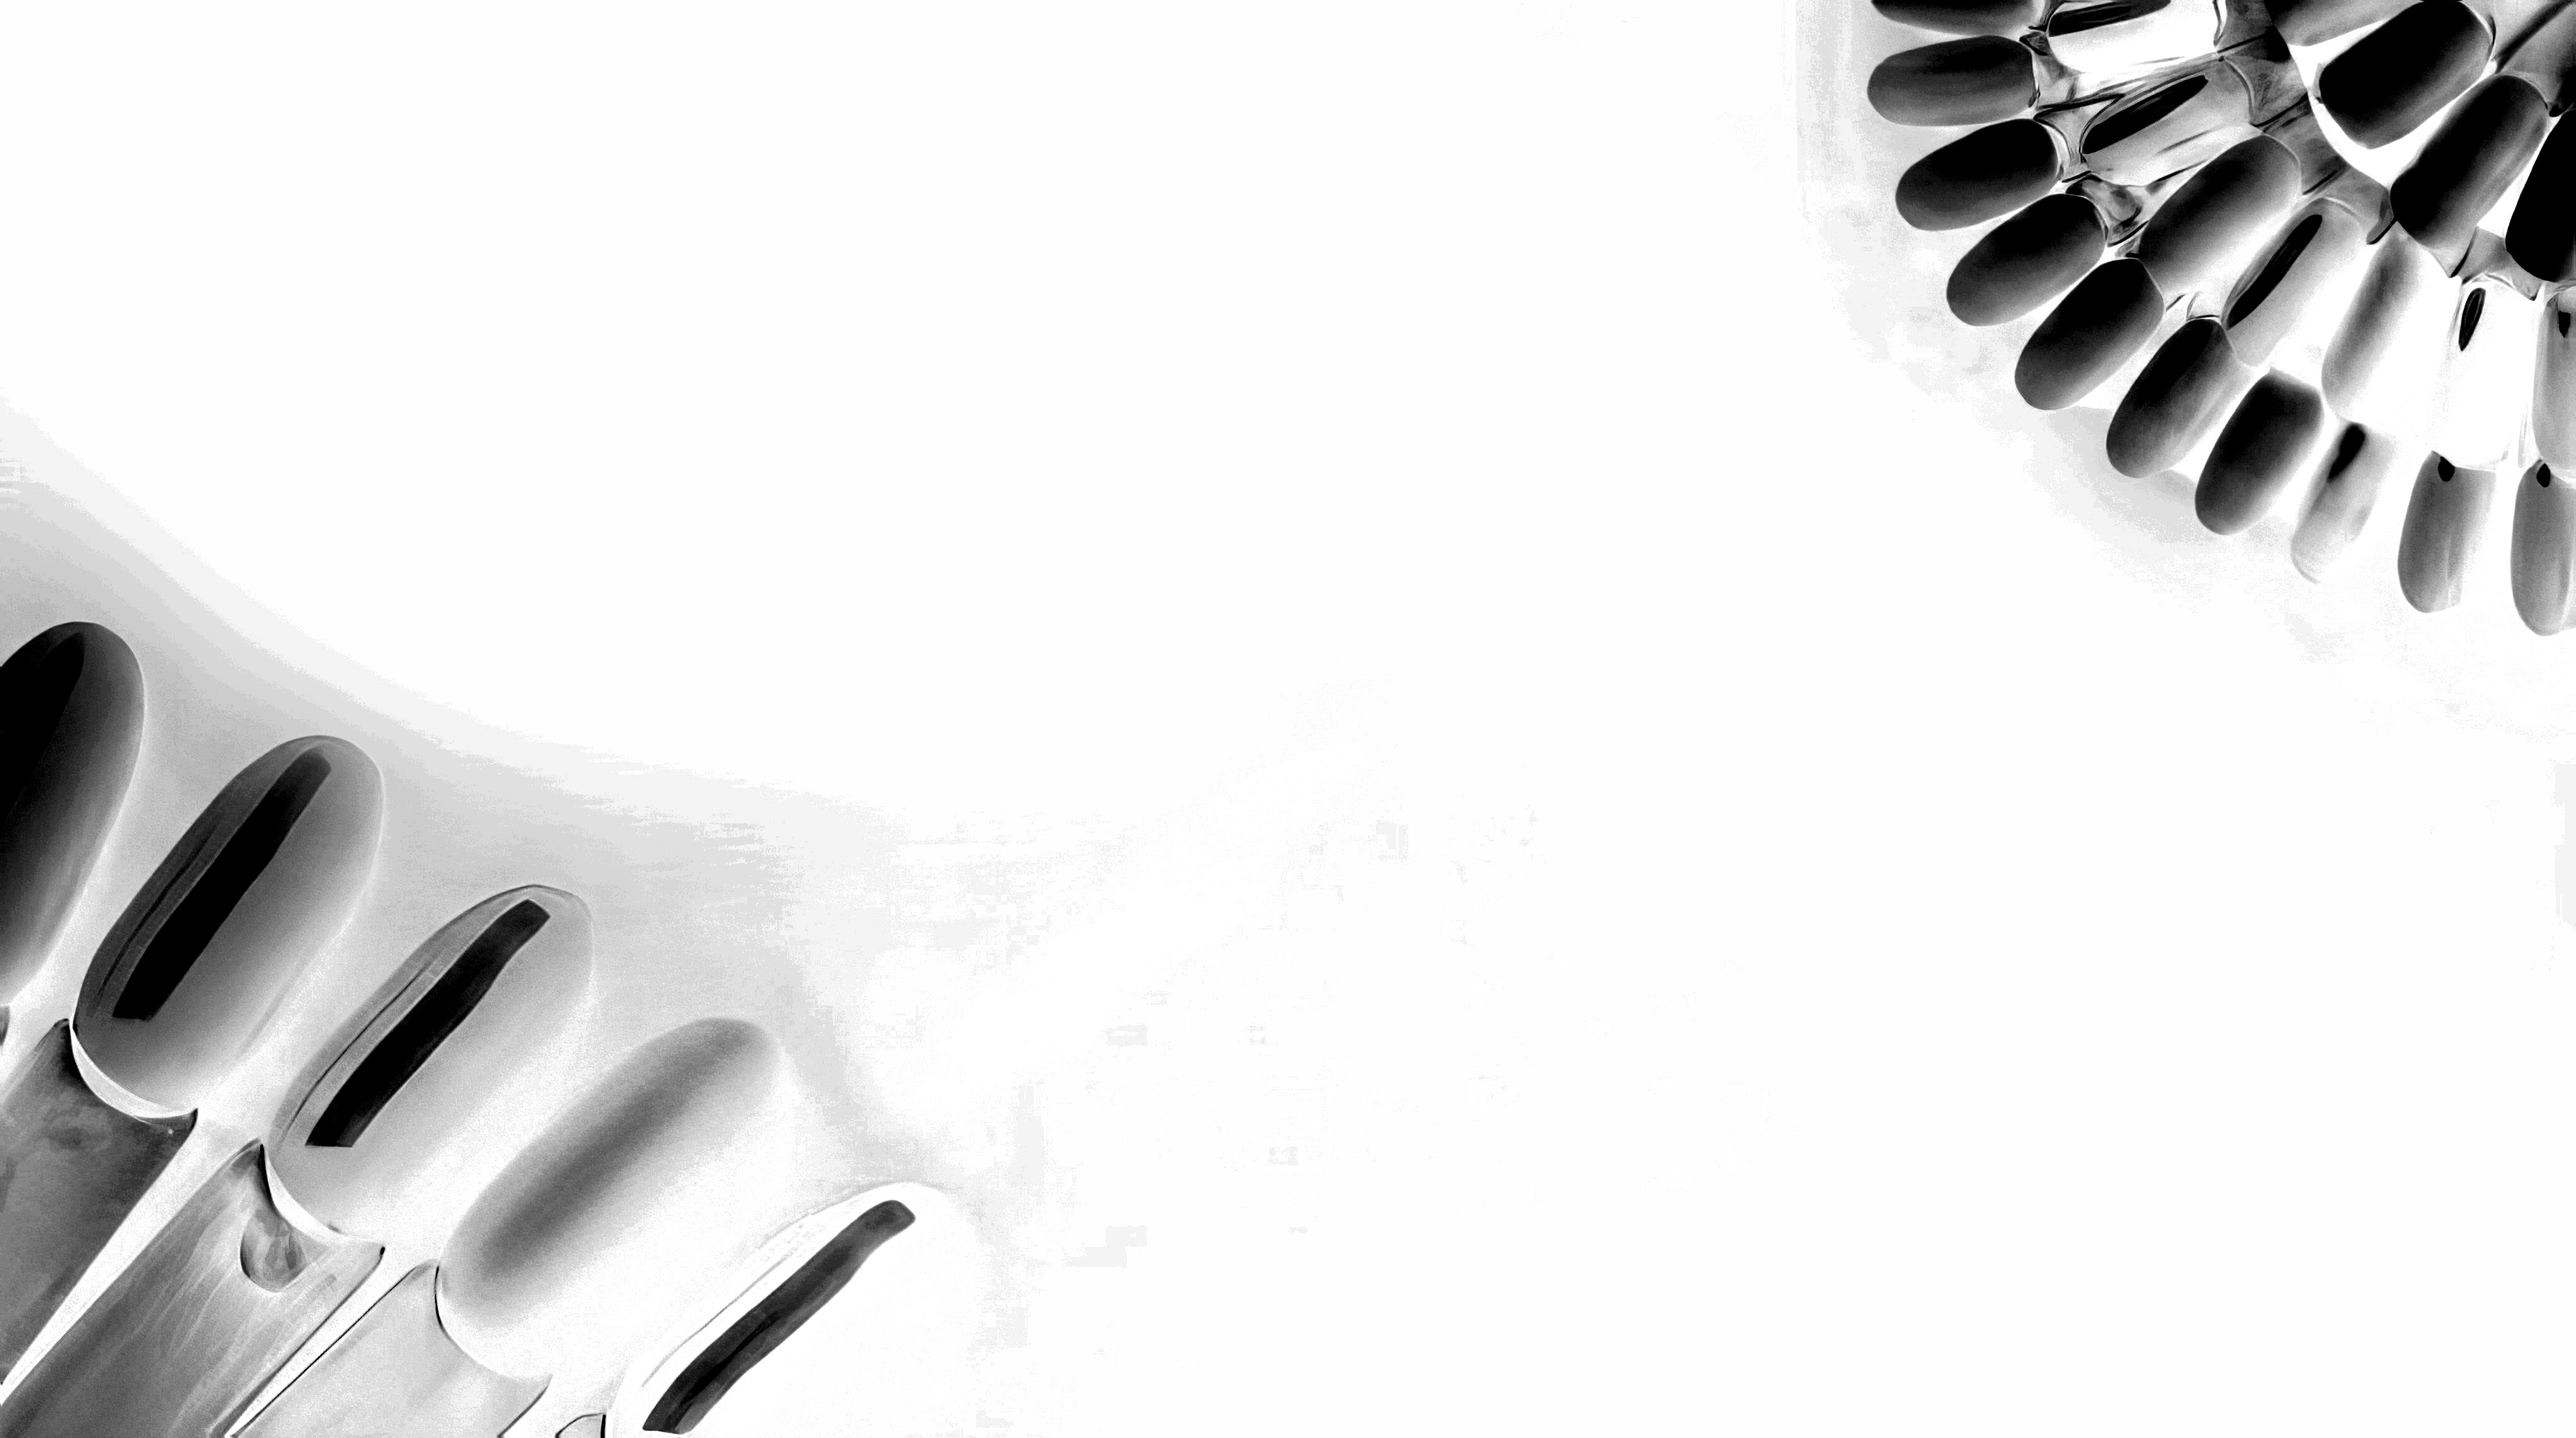
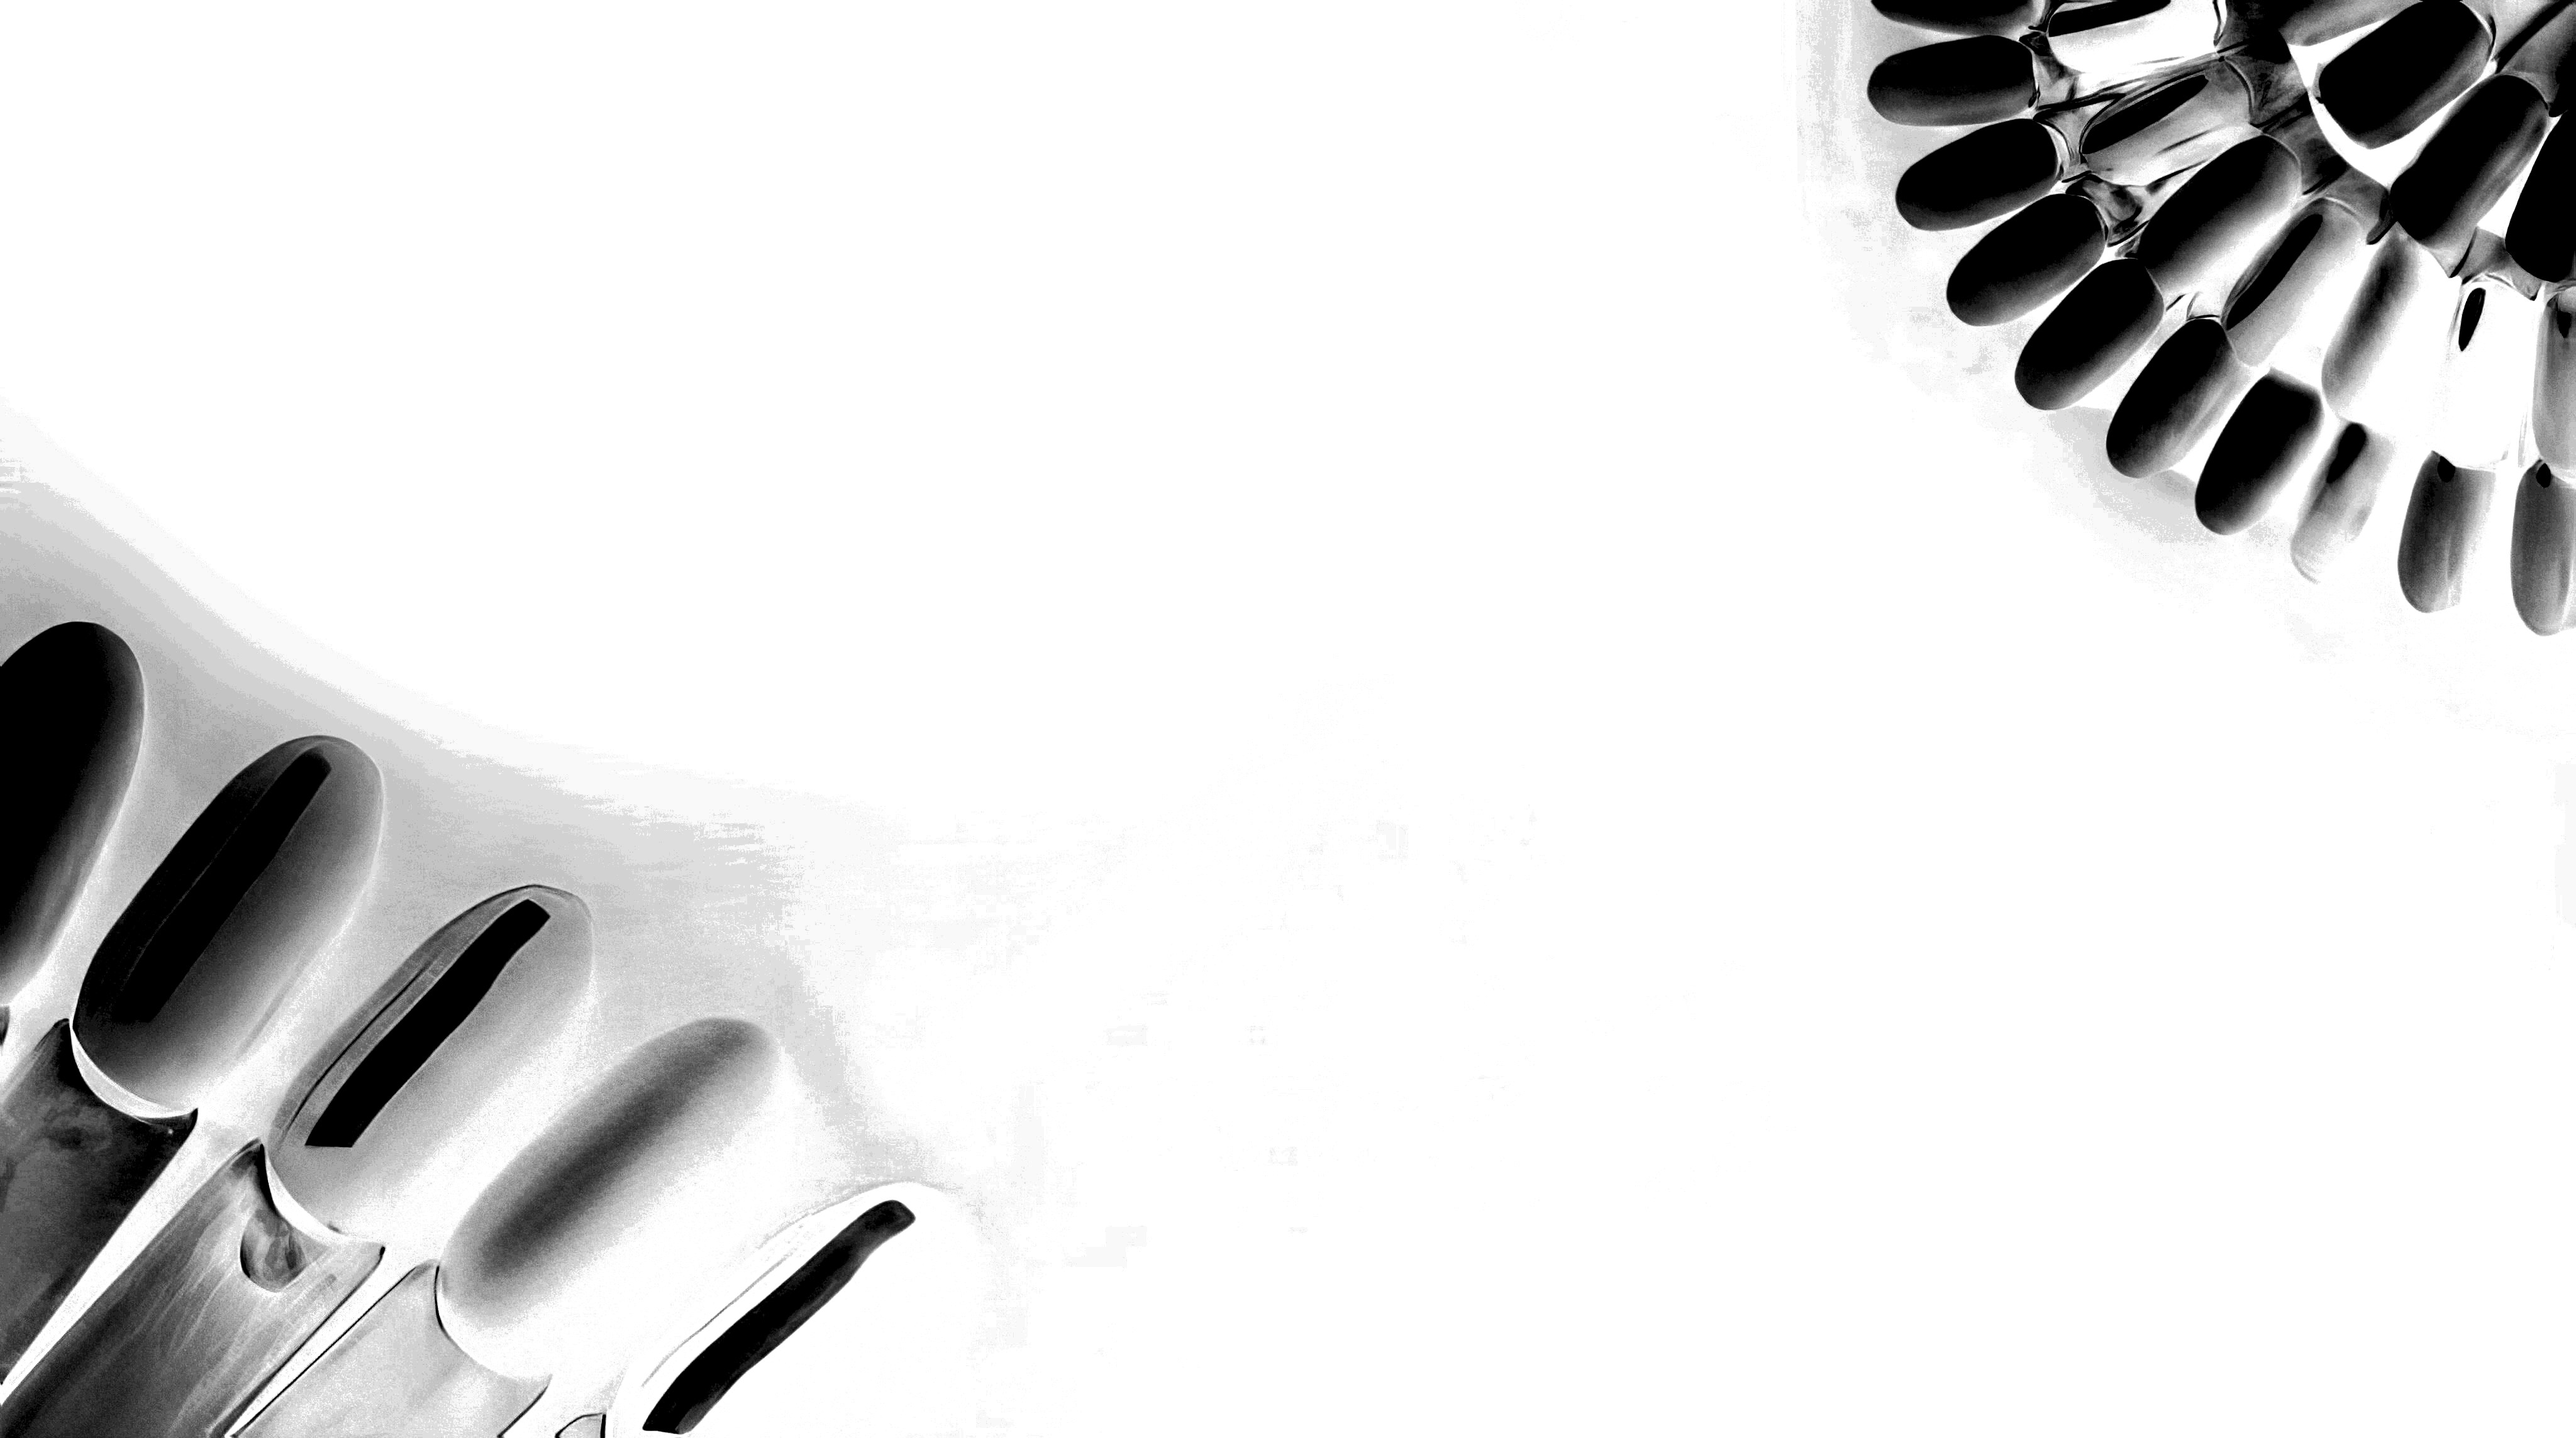
first commit

diff --git a/assets/css/style.css b/assets/css/style.css
@@ -111,14 +111,19 @@ h1, h2, h3, .display {
    оставался читаемым. Само фото переключается между bg-nails-dark.jpg
    и bg-nails-light.jpg через :root[data-theme="light"] ниже. */
 :root {
-  --bg-decor-scrim: linear-gradient(180deg, rgba(11, 11, 11, .62), rgba(11, 11, 11, .84));
+  --bg-decor-scrim: linear-gradient(180deg, rgba(11, 11, 11, .55), rgba(11, 11, 11, .78));
 }
 :root[data-theme="light"] {
-  --bg-decor-scrim: linear-gradient(180deg, rgba(255, 255, 255, .8), rgba(255, 255, 255, .92));
+  --bg-decor-scrim: linear-gradient(180deg, rgba(255, 255, 255, .38), rgba(255, 255, 255, .58));
 }
 .page-bg-decor {
   position: fixed;
   inset: -40px;
+  /* На iOS Safari адресная строка то скрывается, то появляется, из-за
+     чего 100vh "прыгает" и снизу может мелькнуть пустая полоса без
+     фото. min-height через большой фиксированный запас (а не только
+     inset) подстраховывает от этого на телефонах. */
+  min-height: calc(100% + 200px);
   z-index: -1;
   pointer-events: none;
   background-image: var(--bg-decor-scrim), url('../img/social/bg-nails-dark.jpg');
